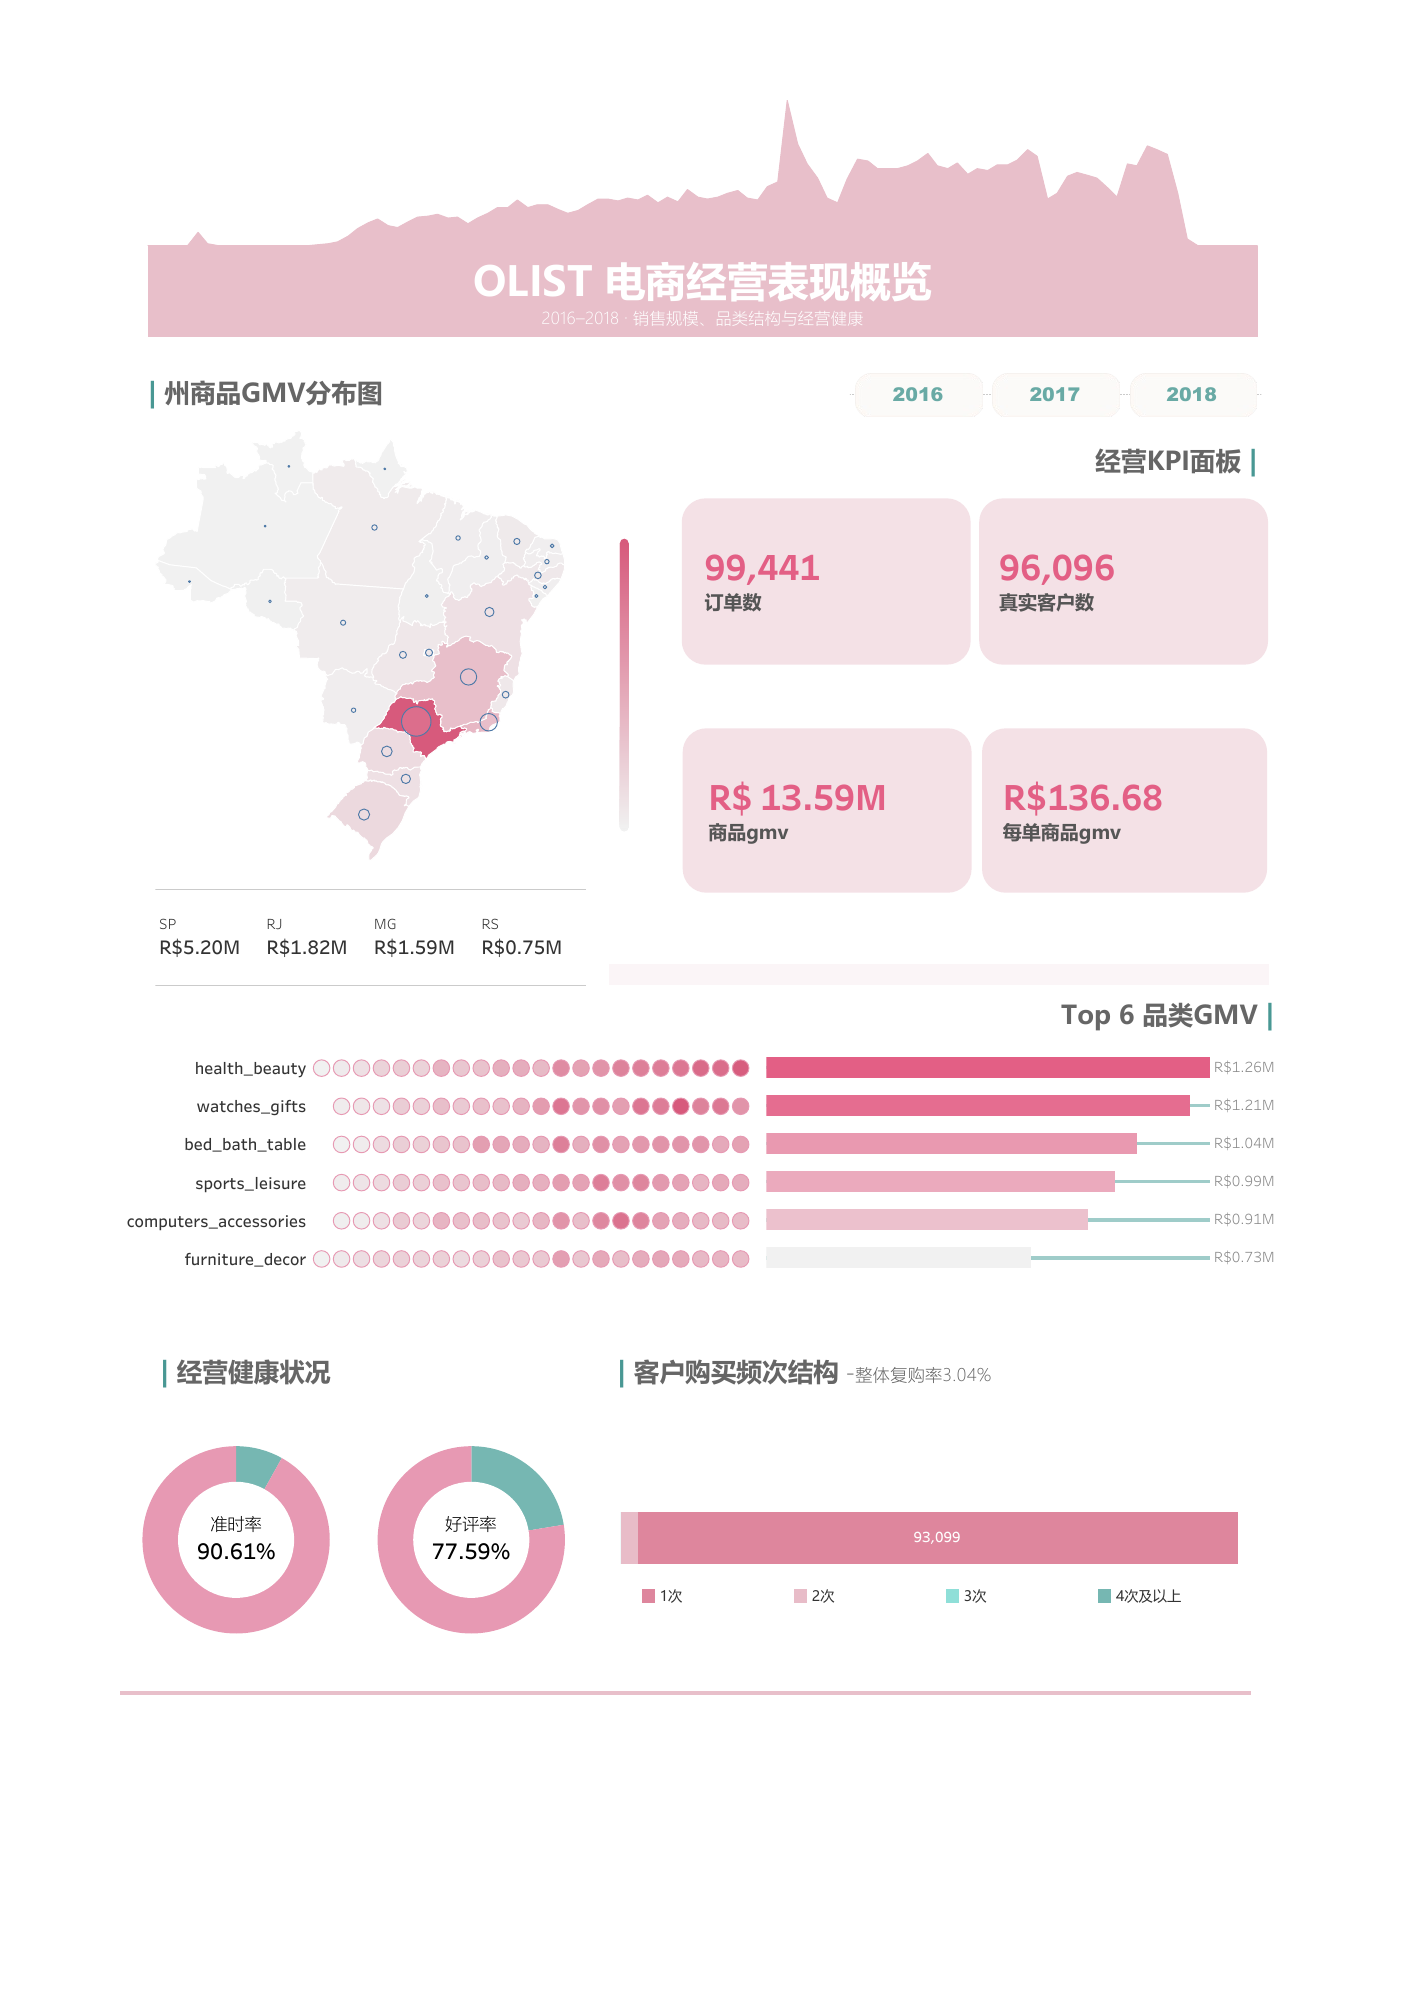
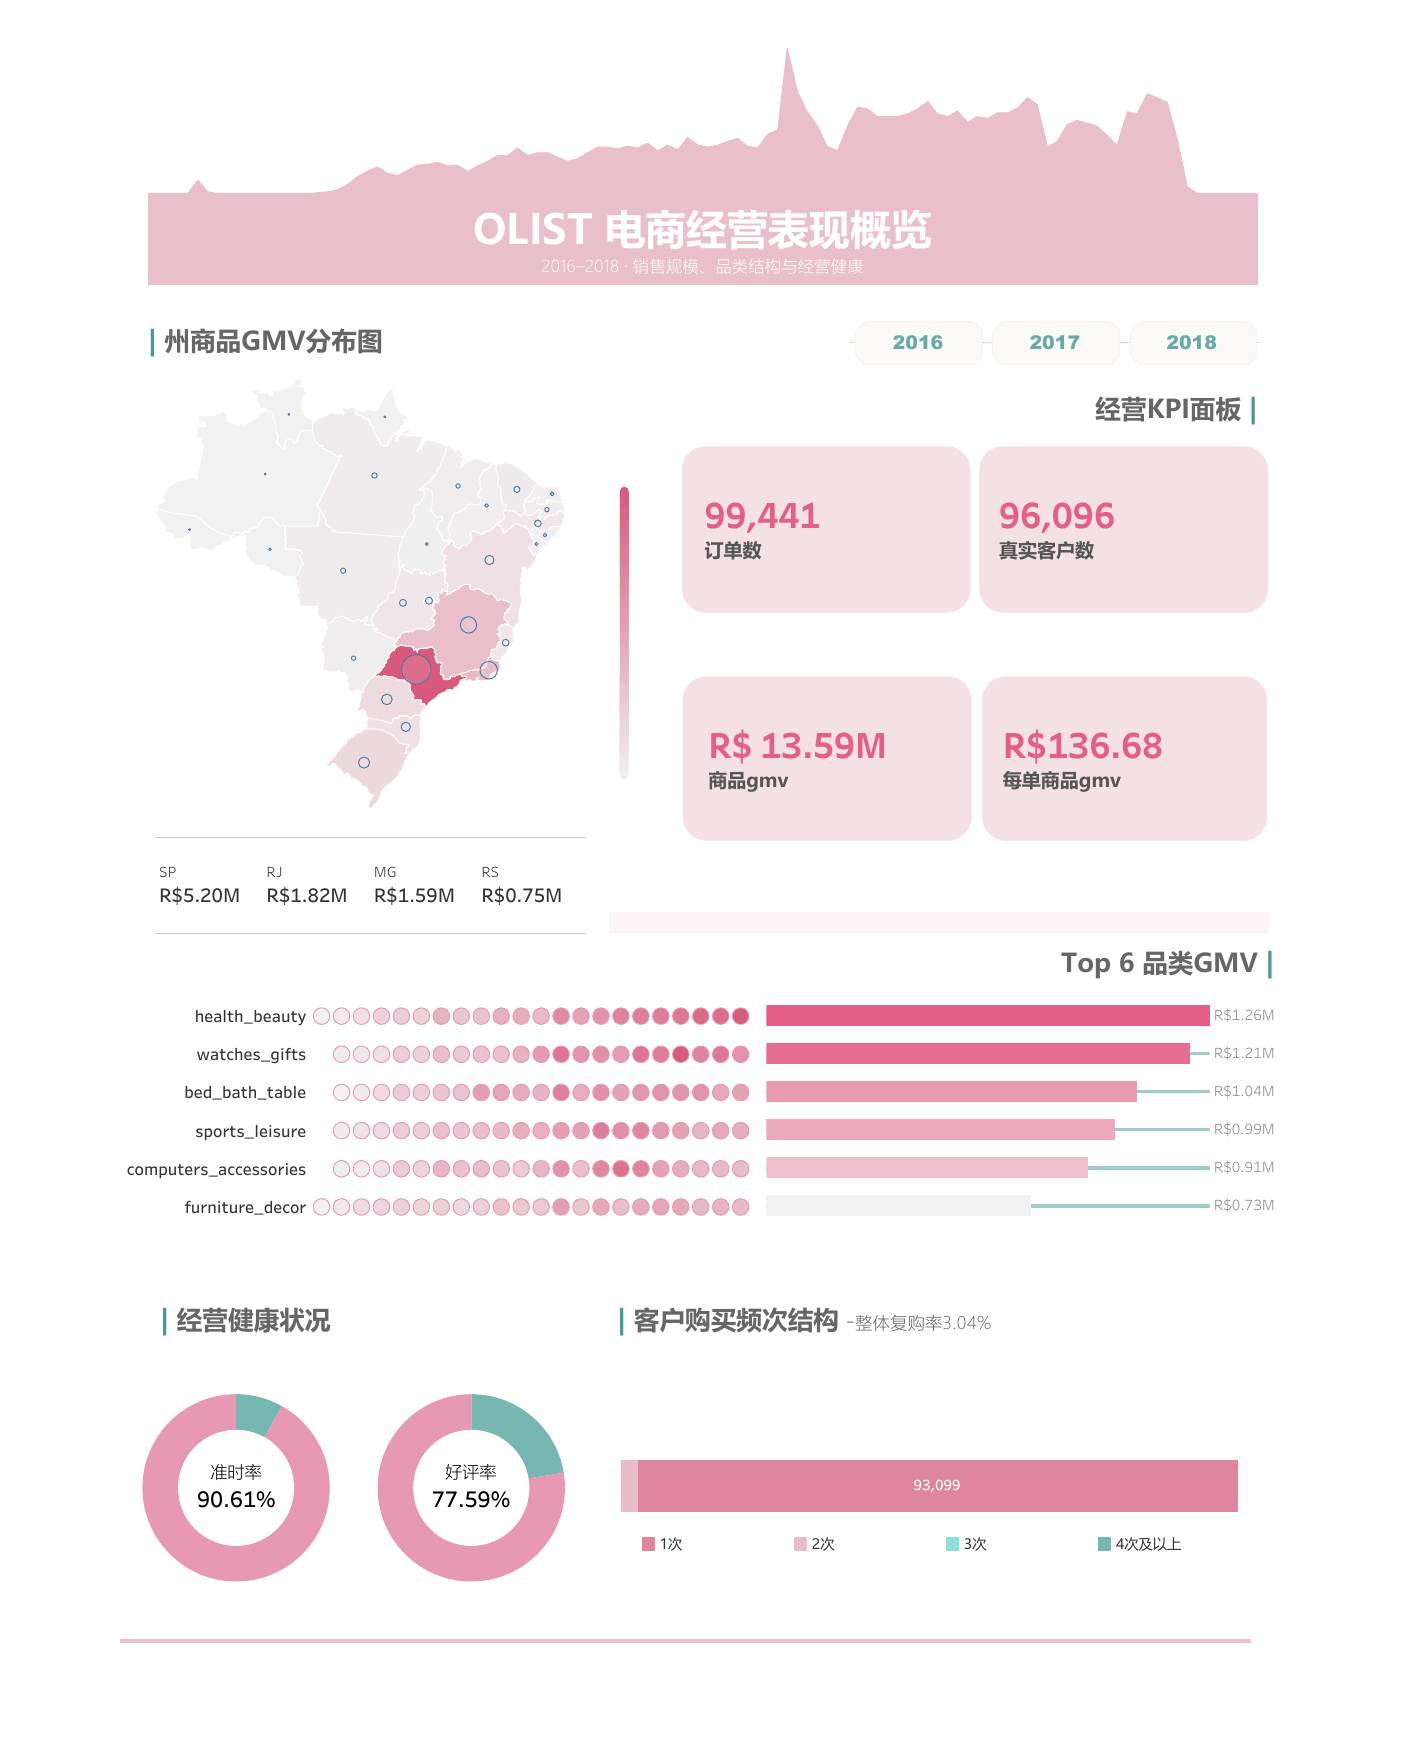
Update Tableau preview and statistical interpretation

Changed region(s): [[0.0918, 0.0309, 0.9181, 0.9284], [0.4285, 0.7427, 0.8875, 0.8046], [0.4285, 0.4023, 0.4591, 0.4332]]

diff --git a/README.md b/README.md
@@ -19,7 +19,7 @@
 
 - 96,476 笔订单有实际送达时间，其中7,827笔延误，延误率为 **8.11%**。
 - 延误订单差评率为 **53.98%**，未延误订单为 **9.19%**，差异为 **44.79 个百分点**。
-- 两比例 Z 检验的95%置信区间为 **[43.66, 45.92] 个百分点**，`p < 0.001`。
+- 两比例 Z 检验的95%置信区间为 **[43.66, 45.92] 个百分点**，`p < 0.001`，说明这一差距并非随机波动所能合理解释，且约44个百分点的差异具有明确业务意义；但观察性数据不能据此认定为严格因果关系。
 - 控制品类、客户州和订单金额后，延误订单产生差评的 odds 约为未延误订单的 **11.65倍**。
 - 延误从1–2天进入3–5天后，差评率由25.52%升至56.66%，因此将3天作为候选预警阈值。
 - 床品卫浴、健康美容和运动休闲同时具有较高延误规模与体验风险，应优先治理。
